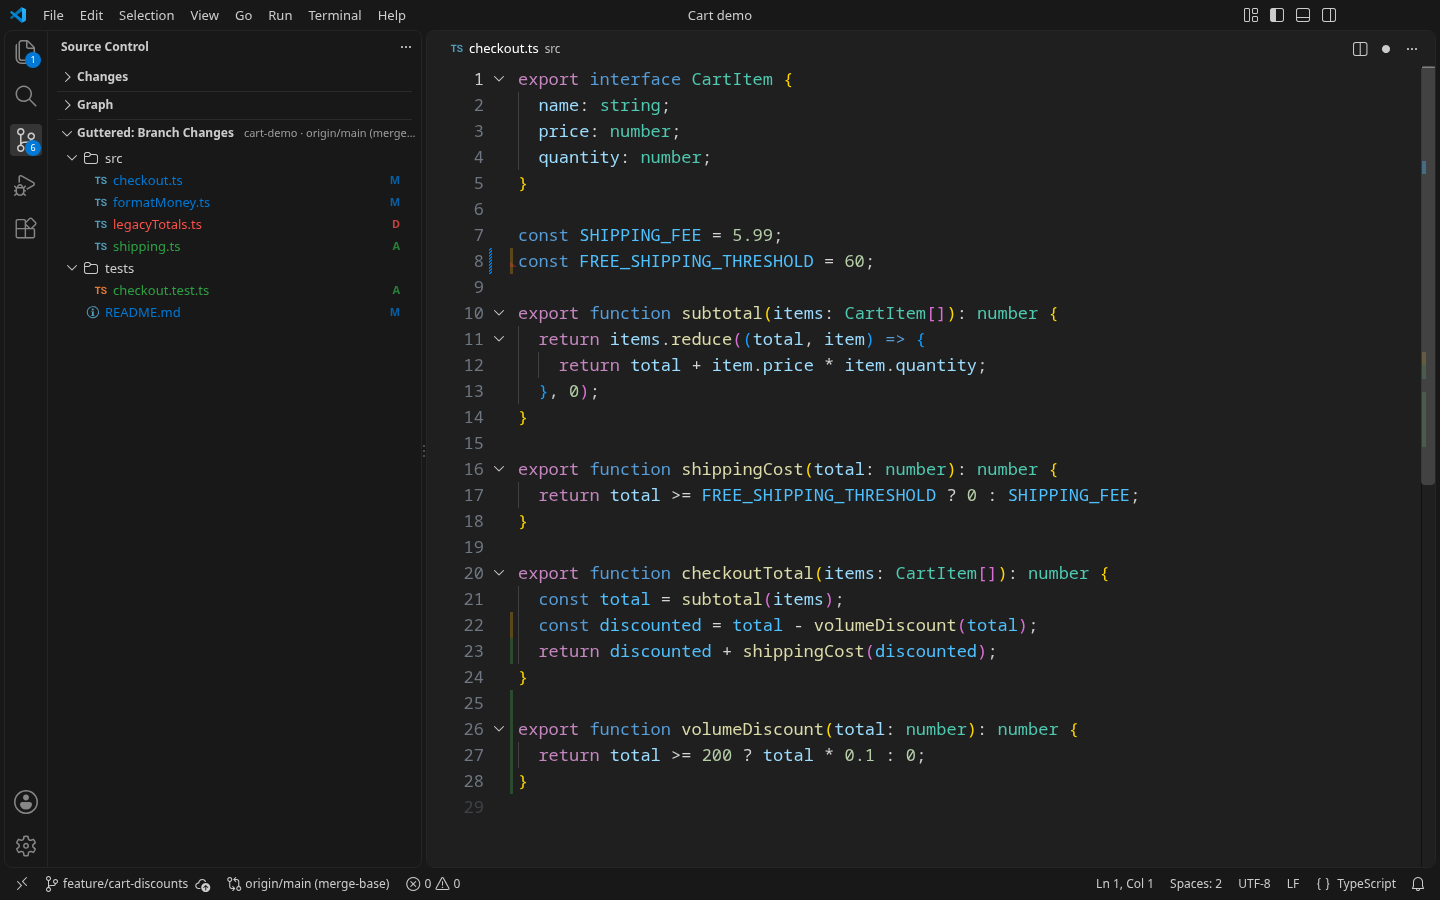
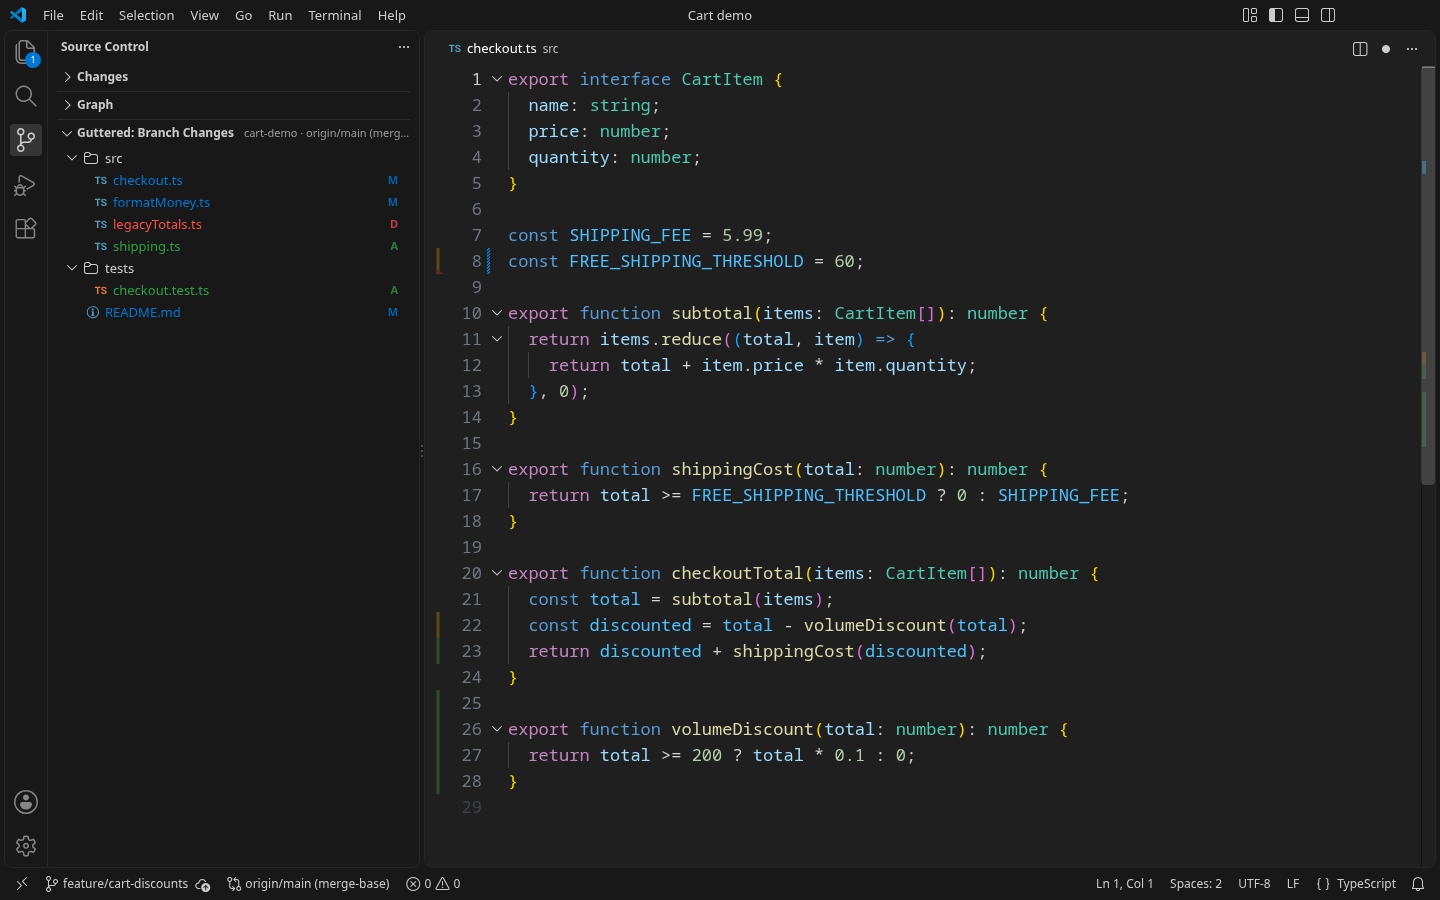
Update screenshots and release Guttered 0.5.1

diff --git a/README.md b/README.md
@@ -6,7 +6,7 @@ Guttered shows your branch's changes **since its merge base with the repository'
 
 ![Branch-change markers and the changed-files tree in VS Code](assets/screenshots/branch-changes-dark.png)
 
-*Committed branch changes and an unsaved edit, with the changed-files tree in Source Control.*
+*Committed branch changes and an unsaved edit, with markers in the default glyph margin and the changed-files tree in Source Control.* [View the light theme](assets/screenshots/branch-changes-light.png).
 
 ## Compare from where your branches diverged
 
@@ -41,6 +41,10 @@ npm run package
 
 Added lines have soft green bars, modified lines have soft yellow bars, and deleted lines have soft red triangles on the neighboring line. Markers use 30% opacity by default, keeping native Git indicators more prominent on both dark and light themes. Markers sit in the glyph margin alongside breakpoints, so the text starts at its usual position. The overview ruler also shows the changes; text backgrounds stay unchanged. Right-click the line number or glyph margin of a marked line for Guttered's actions at that line.
 
+![The gutter menu contains VS Code's breakpoint actions and Guttered's diff and restore actions](assets/screenshots/gutter-menu.png)
+
+*Open the merge-base diff or restore the clicked change from the same menu as VS Code's breakpoint actions.*
+
 The glyph margin has trade-offs set by VS Code:
 
 - Clicking the glyph margin of a changed line doesn't add a breakpoint. Right-click the gutter and choose **Add Breakpoint**, or press F9. Clicking an existing breakpoint still removes it.
@@ -66,6 +70,10 @@ Marker previews stay separate from code documentation. They require the inset pl
 The **Guttered: Branch Changes** section in Source Control lists changed files from the active file's repository, grouped under their parent folders. It uses the selected reference's merge base and includes committed, staged, unstaged, untracked, and unsaved changes. With no file selected, it uses the first workspace folder. Files use your file icon theme, with **A** (green), **M** (blue), and **D** (red) badges for added, modified, and deleted files. Badge colors follow your theme's Git gutter colors. Click a file to compare its read-only merge-base version on the left with the working file, including unsaved edits, on the right. Added files have an empty left side; deleted files have an empty right side. Baseline loading keeps the existing text and size limits. Renames appear as a deletion and an addition, matching the gutter's path-based comparison.
 
 The tree updates automatically while visible. It lists saved file changes through Git and applies open, unsaved buffers on top, so restoring a buffer to the baseline removes that file from the list. Binary and large files can appear in the tree even when their gutter comparison is unavailable. The view's toolbar offers toggle, reference selection, and refresh. The Source Control icon keeps VS Code's normal count of local changes.
+
+![The native diff compares the merge-base checkout code with the current file, including the unsaved threshold of 60](assets/screenshots/merge-base-diff.png)
+
+*The merge base is on the left; the current file, including unsaved edits, is on the right.*
 
 A *hunk* is a group of adjacent changed lines. The available actions are:
 

diff --git a/CHANGELOG.md b/CHANGELOG.md
@@ -1,12 +1,16 @@
 # Changelog
 
+## 0.5.1
+
+- Refresh the dark and light screenshots for the default glyph-margin placement, show the gutter menu alongside VS Code's breakpoint actions, and update the diff and inset-hover examples.
+- Keep deletion markers at their boundary on wrapped lines.
+- Hide gutter actions in non-file editors and cancel diff or restore commands if the document changes while switching editors.
+
 ## 0.5.0
 
 - Show markers in the glyph margin alongside breakpoints by default. Clicking a changed line there doesn't add a breakpoint, so use the gutter's right-click menu or F9. Set `guttered.gutterPlacement` to `inset` for the previous placement, which keeps breakpoint clicks free and previews changes on hover.
 - Right-click the line number or glyph margin of a changed line to open the diff or restore the change at that line.
 - Fix **Open Diff with Merge Base** in the editor's Guttered context menu, which reported an invalid diff target.
-- Keep deletion markers at their boundary on wrapped lines.
-- Hide gutter actions in non-file editors and cancel diff or restore commands if the document changes while switching editors.
 
 ## 0.4.3
 
